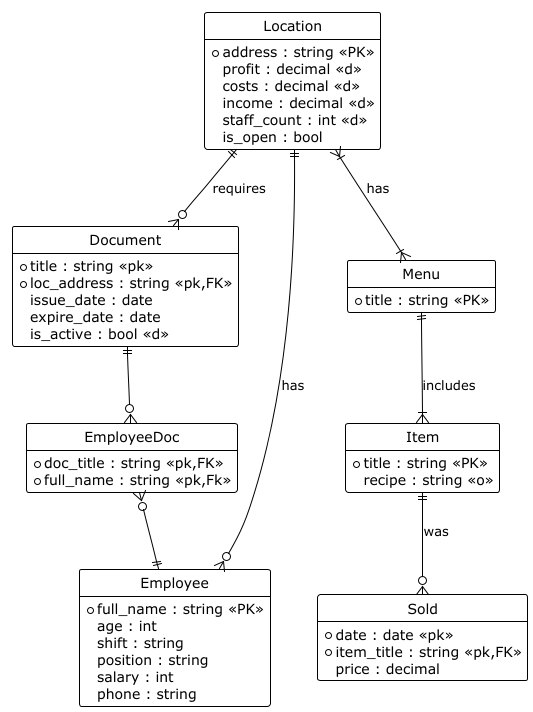
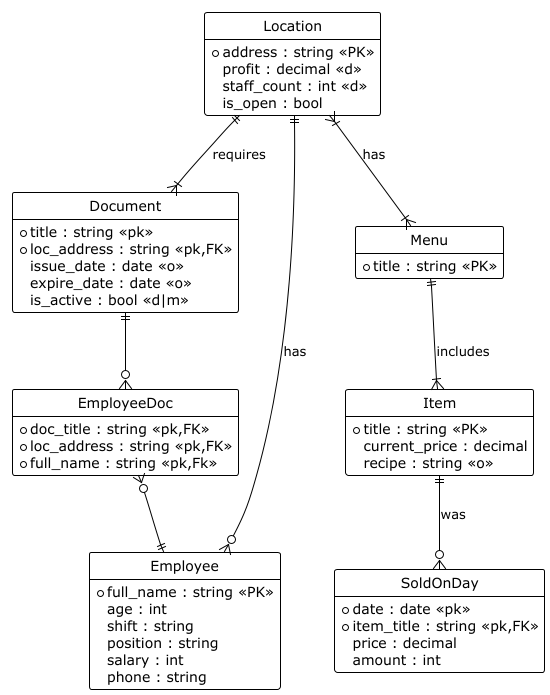
did DB lab

Changed region(s): [[0.0, 0.0, 1.0, 0.9971]]

diff --git a/lab1/src/entities.js b/lab1/src/entities.js
@@ -4,8 +4,6 @@ class Location {
      // @param {string} address
      // @param {boolean} is_open
      // @type {number} profit (derived)
-     // @type {number} costs (derived)
-     // @type {number} income (derived)
      // @type {number} staff_count (derived)
 
     constructor(address, is_open) {
@@ -14,8 +12,6 @@ class Location {
     }
 
     get profit(){}
-    get costs(){}
-    get income(){}
     get staff_count(){}
 }
 
@@ -23,19 +19,25 @@ class Document {
 
      // @param {string} title
      // @param {string} loc_address
-     // @param {Date} issue_date
-     // @param {Date} expire_date
-     // @param {string} emp_name (optional)
+     // @param {Date} issue_date (optional)
+     // @param {Date} expire_date (optional)
+     // @param {boolean} is_active_m (optional)
      // @type {boolean} is_active (derived)
 
-    constructor(title, loc_address, issue_date, expire_date) {
+    constructor(title, loc_address, issue_date, expire_date,is_active_m) {
         this.title = title; //pk
         this.loc_address = loc_address; // FK
-        this.issue_date = issue_date;
-        this.expire_date = expire_date;
+        this.issue_date = issue_date || null;
+        this.expire_date = expire_date || null;
+        this.is_active_m = is_active_m || null;
     }
 
-    get is_active() {}
+    get is_active() {
+        if (this.is_active_m !== null) {
+            return this.is_active_m;
+        }
+        //...
+    }
 
 }
 
@@ -57,7 +59,6 @@ class Employee {
         this.salary = salary;
         this.phone = phone;
         this.loc_address = loc_address; //FK
-        this.doc_title = doc_title || null;//FK
     }
 }
 
@@ -67,17 +68,21 @@ class EmployeeDoc {
     // @param {object} documentInst
     // @type {string} employeeInst.full_name
     // @type {string} documentInst.title
+    // @type {string} documentInst.loc_address
 
     constructor(employeeInst,documentInst) {
         this.employeeInst = employeeInst;
         this.documentInst = documentInst;
     }
 
-    get employeeName() {
+    get employee_name() {
         return this.employeeInst.full_name; //pk,FK
     }
-    get documentTitle() {
+    get document_title() {
         return this.documentInst.title; //pk,FK
+    }
+    get loc_address() {
+        return this.documentInst.loc_address; //pk,FK
     }
 }
 
@@ -95,13 +100,13 @@ class Menu {
 class Item {
 
      // @param {string} title
+     // @param {number} current_price
+     // @param {string} menu_title
      // @param {string} recipe (optional)
-     // @param {string} loc_address
 
-    constructor(title, price, sold_num, menu_title, recipe) {
+    constructor(title, current_price, menu_title, recipe) {
         this.title = title; //PK
-        this.price = price;
-        this.sold_num = sold_num;
+        this.current_price = current_price;
         this.menu_title = menu_title; //FK
         this.recipe = recipe || null;
     }
@@ -110,11 +115,14 @@ class Item {
 class Sold {
 
     // @param {data} date
+    // @param {string} item_title
+    // @param {number} amount
     // @param {number} price
 
-    constructor(date, price, item) {
+    constructor(date, item_title, amount, price) {
         this.date = date; //pk
-        this.item = item; //pk,FK
+        this.item_title = item_title; //pk,FK
+        this.amount = amount;
         this.price = price;
     }
 }

diff --git a/lab1/README.md b/lab1/README.md
@@ -10,10 +10,46 @@
 - меню та позиції меню
 - документи
 
+## Вимоги
+### Локація:
+- Мережа кав'ярень включає різні локації.
+- Локація має від 0 до N працівників.
+- Локація має від 1 до N документів.
+- Локація має від 1 до N меню (меню напоїв, меню солодощів тощо).
+- Існує статична інформація про те, чи локація наразі експлуатується та її адреса.
+- Існує динамічна інформація про середній заробіток на локації за місяць та кількість працівників.
+### Документи:
+- Документ стосується лише однієї конкретної локації.
+- Документ може стосуватись від 0 до N.
+- Існує статична інформація про назву документа, локацію документа, дати вступу в силу(опціонально) і протермінування(опціонально).
+- Існує динамічна інформація про те, чи документ в силі(можливий ручний ввід), враховуючи дати вступу в силу і протермінування.
+### Працівники:
+- Працівник працює лише на одній локації.
+- Працівник може мати декілька документів.
+- Існує статична інформація про повне ім'я, вік, зарплату, посаду, графік роботи та номер телефону кожного працівника.
+### Меню:
+- Меню може стосуватись від 1 до N локацій.
+- Меню може мати від 1 до N позицій.
+- Існує інформація про назву меню (напої, солодощі, особливе тощо).
+### Позиція меню:
+- Позиція може належати лише одному меню.
+- Існує статична інформація про назву позиції, ціну та її рецепт(опціонально).
+- Повинна бути можливість обрахувати заробіток за певний період на певному товарі.
+
+
 ## Виконано
 - ER-діаграма в нотаціях **Чена** та **crow's foot** 
 - Опис у **PlantUML crow's foot**
 - Приклад відображення сутностей у вигляді **класів JavaScript**
+
+## Пояснення деяких позначень
+### в crow's foot нотації:
+- << o >> -> опціональний атрибут
+- << d >> -> динамічний атрибут
+- << d|m >> -> динамічний за замовчуванням
+- << PK >> -> головний ключ
+- << FK >> -> зовнішній ключ
+- << pk >> -> частковий ключ
 
 ## Мапа
 - `/diagram` — ER-діаграми
